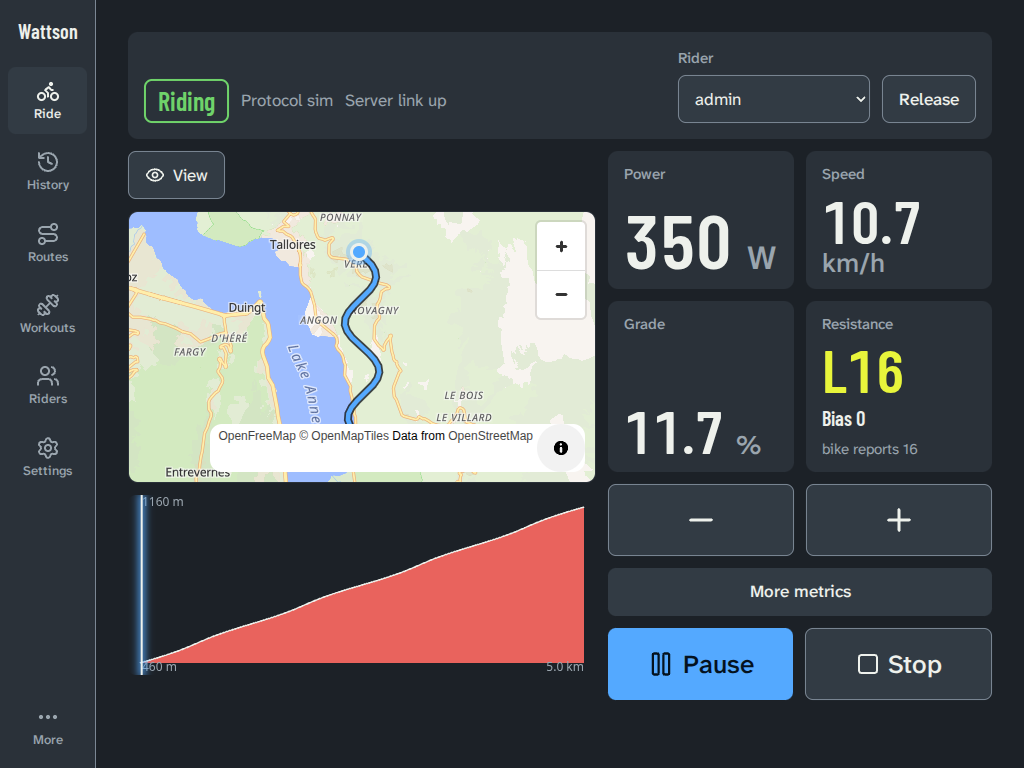
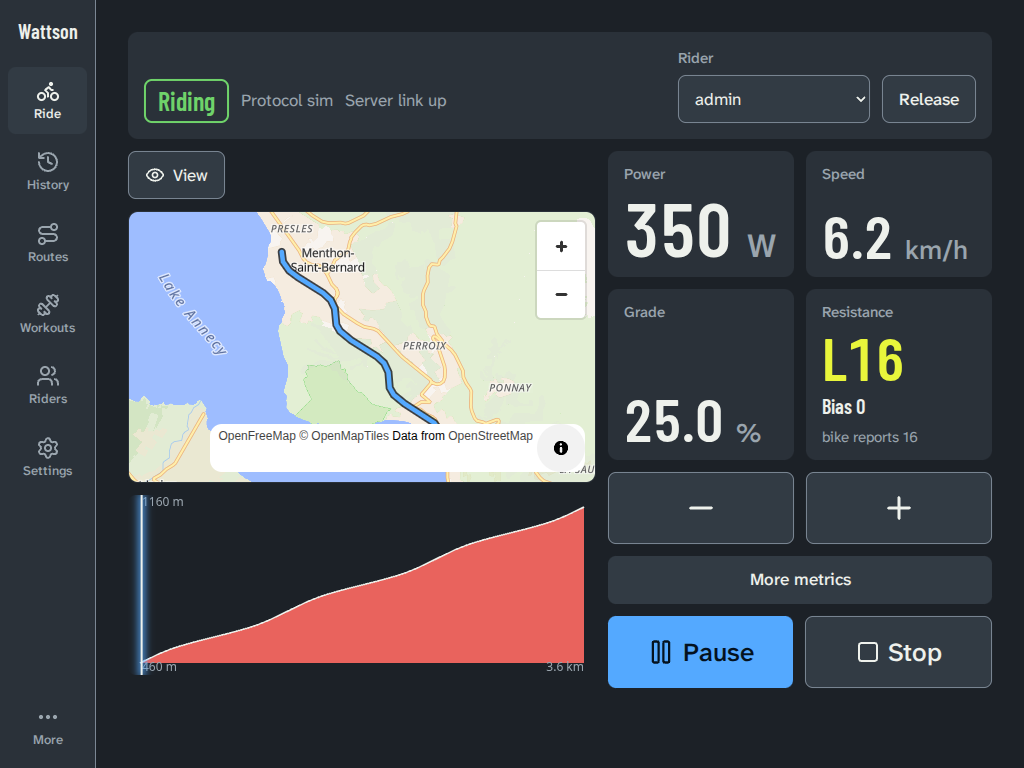
test(web): assert the live 3D camera is pitched and in perspective; docs: a TV 3D shot with visible perspective
data-pitch is the live map.getPitch() (no product bug): the earlier picture was flat
because the route climbed a mountain face, whose steep terrain faced the camera.
Ride3D exposes its map on the container for tests; visuals.spec and screenshots.spec
assert pitch > 50 and a top/bottom ground span ratio > 1.5. The scenic route now runs
along the lake shore.

diff --git a/web/e2e/visuals.spec.ts b/web/e2e/visuals.spec.ts
@@ -40,7 +40,22 @@ test('3D flyover pitches the camera, is remembered per device and 2D on another 
   await chooseView(page, '3D flyover');
   const view = page.getByTestId('route-3d');
   await expect(view).toBeVisible();
-  await expect.poll(async () => Number((await view.getAttribute('data-pitch')) ?? 0), { timeout: 10_000 }).toBeGreaterThan(50);
+  // The live MapLibre camera, not just the attribute that mirrors it.
+  const livePitch = () =>
+    view.evaluate((el) => (el as HTMLElement & { __map?: { getPitch(): number } }).__map?.getPitch() ?? 0);
+  await expect.poll(livePitch, { timeout: 10_000 }).toBeGreaterThan(50);
+  await expect.poll(async () => Number((await view.getAttribute('data-pitch')) ?? 0)).toBeGreaterThan(50);
+  // ... and it renders in perspective: the ground in the top half of the view spans far more than the bottom half.
+  const span = await view.evaluate((el) => {
+    const m = (el as HTMLElement & { __map?: any }).__map;
+    const c = m.getCanvas();
+    const w = c.clientWidth;
+    const h = c.clientHeight;
+    const d = (p: any, q: any) => Math.hypot((p.lng - q.lng) * 78000, (p.lat - q.lat) * 111000);
+    const mid = m.unproject([w / 2, h / 2]);
+    return d(m.unproject([w / 2, 0]), mid) / d(mid, m.unproject([w / 2, h]));
+  });
+  expect(span, 'perspective: the top half shows far more ground').toBeGreaterThan(1.5);
   expect(await page.evaluate(() => localStorage.getItem('wattson.view'))).toBe('3d');
 
   // The same device after a reload.
@@ -64,7 +79,7 @@ test('3D flyover pitches the camera, is remembered per device and 2D on another 
 });
 
 test('fallback simulation: a ~10 fps display drops 3D to 2D and says why', async ({ page, routeId }) => {
-  test.setTimeout(120_000);
+  test.setTimeout(150_000);
   await page.addInitScript(() => {
     // Every animation frame arrives 100 ms apart, like a very slow display.
     window.requestAnimationFrame = (cb) => window.setTimeout(() => cb(performance.now()), 100);
@@ -75,7 +90,7 @@ test('fallback simulation: a ~10 fps display drops 3D to 2D and says why', async
   await chooseView(page, '3D flyover');
   await expect(page.getByTestId('route-3d')).toBeVisible();
   // Two warm-ups (full tier, then lite) and their windows.
-  await expect(page.getByText(/3D was too slow on this display/)).toBeVisible({ timeout: 60_000 });
+  await expect(page.getByText(/3D was too slow on this display/)).toBeVisible({ timeout: 100_000 });
   await expect(page.getByTestId('route-3d')).toHaveCount(0);
   await expect(page.locator('.maplibregl-canvas')).toBeVisible();
   expect(await page.evaluate(() => localStorage.getItem('wattson.view'))).toBe('2d');

diff --git a/web/e2e/screenshots.spec.ts b/web/e2e/screenshots.spec.ts
@@ -7,12 +7,12 @@ import { apiAs, expect, importRamp, setupAdmin, test as base, useFakeMapillary, 
 // Real OpenFreeMap and Terrarium tiles (needs internet); photos come from the worker's fake Mapillary.
 const OUT = resolve(import.meta.dirname, '../../docs/images');
 
-// A climb above a lake (Alps) that looks good under real tiles: a swinging line with ~700 m of ascent over 5 km.
+// A climb along a lake shore (Alps), so the slopes are beside the camera, not a wall in front of it: ~700 m of ascent over 3.6 km.
 const SCENIC_GPX = `<?xml version="1.0"?><gpx version="1.1" creator="wattson-docs" xmlns="http://www.topografix.com/GPX/1/1"><trk><name>Lakeside climb</name><trkseg>${Array.from(
   { length: 61 },
   (_, i) => {
     const t = i / 60;
-    return `<trkpt lat="${(45.8394 - 0.0361 * t).toFixed(6)}" lon="${(6.2330 + 0.0017 * t + 0.0045 * Math.sin(t * Math.PI * 4)).toFixed(6)}"><ele>${(460 + 700 * t).toFixed(1)}</ele></trkpt>`;
+    return `<trkpt lat="${(45.8394 + 0.0231 * t).toFixed(6)}" lon="${(6.2161 - 0.0280 * t + 0.0015 * Math.sin(t * Math.PI * 6)).toFixed(6)}"><ele>${(460 + 700 * t).toFixed(1)}</ele></trkpt>`;
   },
 ).join('')}</trkseg></trk></gpx>`;
 
@@ -100,7 +100,19 @@ test('ride-tv-3d: the TV with the 3D flyover', async ({ page, routeId }) => {
   await page.waitForTimeout(10_000); // software rendering draws the tiles a few at a time
   const view = page.getByTestId('route-3d');
   await expect(view).toBeVisible(); // still 3D: no fallback to the 2D map
-  await expect.poll(async () => Number((await view.getAttribute('data-pitch')) ?? 0)).toBeGreaterThan(50);
+  // The live MapLibre camera must be pitched and show it: the ground in the top half of the view
+  // spans clearly more than in the bottom half (a steep slope facing the camera would flatten it).
+  const cam = await view.evaluate((el) => {
+    const m = (el as HTMLElement & { __map?: any }).__map;
+    const c = m.getCanvas();
+    const w = c.clientWidth;
+    const h = c.clientHeight;
+    const d = (p: any, q: any) => Math.hypot((p.lng - q.lng) * 78000, (p.lat - q.lat) * 111000);
+    const mid = m.unproject([w / 2, h / 2]);
+    return { pitch: m.getPitch(), top: d(m.unproject([w / 2, 0]), mid), bottom: d(mid, m.unproject([w / 2, h])) };
+  });
+  expect(cam.pitch, 'the live camera is pitched').toBeGreaterThan(50);
+  expect(cam.top / cam.bottom, 'perspective: the top half shows far more ground').toBeGreaterThan(1.5);
   await shoot(page, 'ride-tv-3d');
 });
 

diff --git a/web/src/features/ride/Ride3D.tsx b/web/src/features/ride/Ride3D.tsx
@@ -89,6 +89,8 @@ export default function Ride3D(p: {
         fail('webgl');
         return null;
       }
+      // Handle for end-to-end tests, which assert on the live camera (map.getPitch()), not on data attributes.
+      (box.current as (HTMLDivElement & { __map?: MlMap }) | null)!.__map = map;
       const accent = token('--accent', '#54a9ff');
       const el = document.createElement('div');
       el.style.cssText = `width:18px;height:18px;border-radius:50%;background:${accent};border:3px solid ${token('--chalk', '#eaf1ee')};box-shadow:0 0 0 4px rgba(84,169,255,.35)`;
